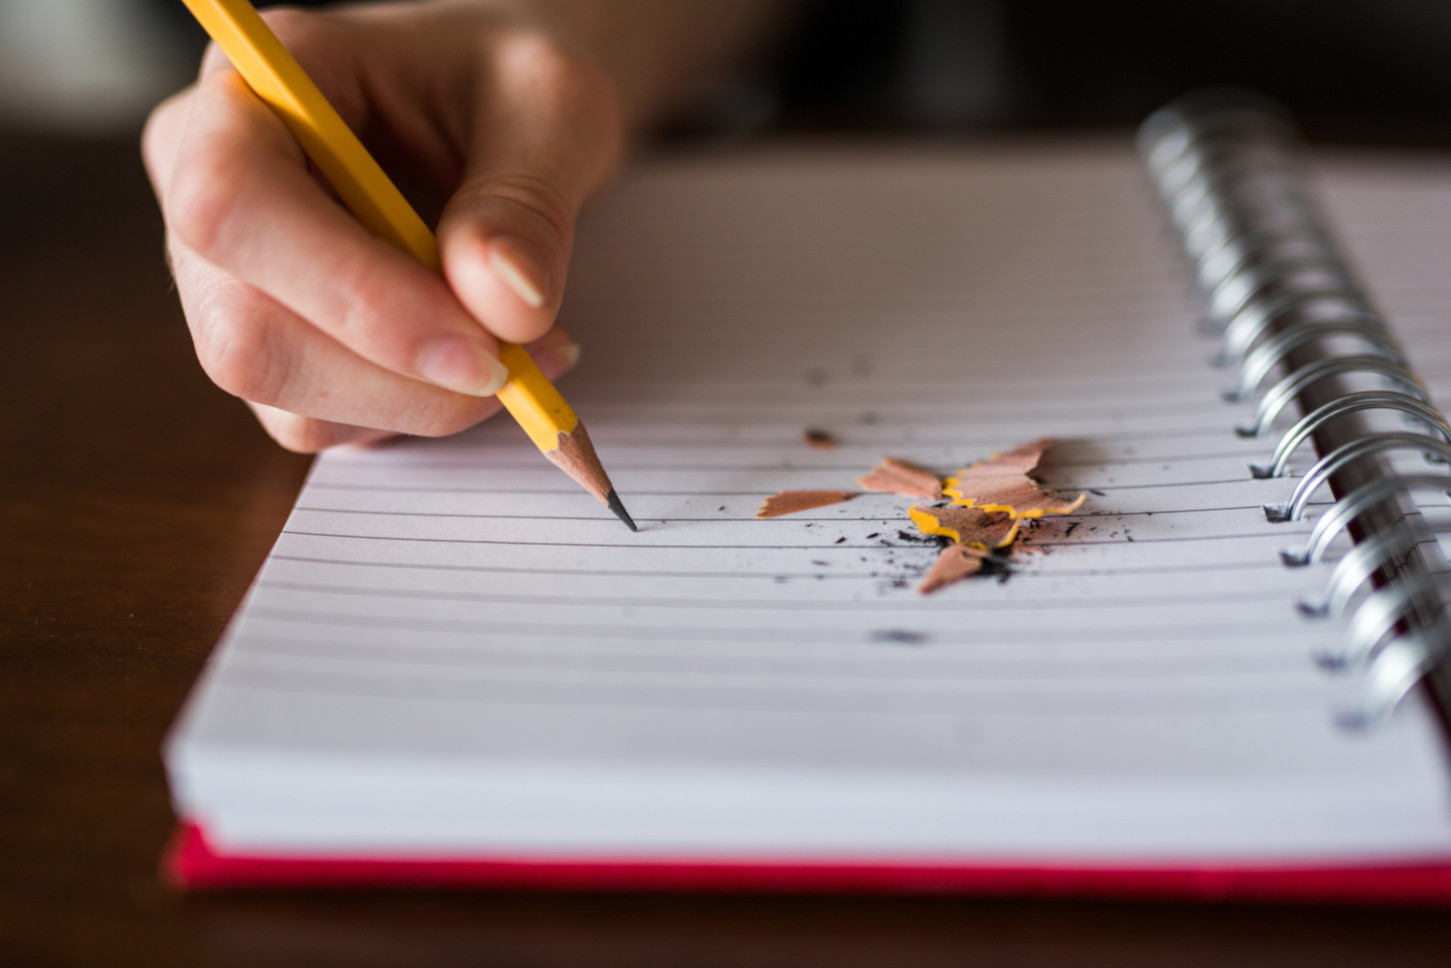
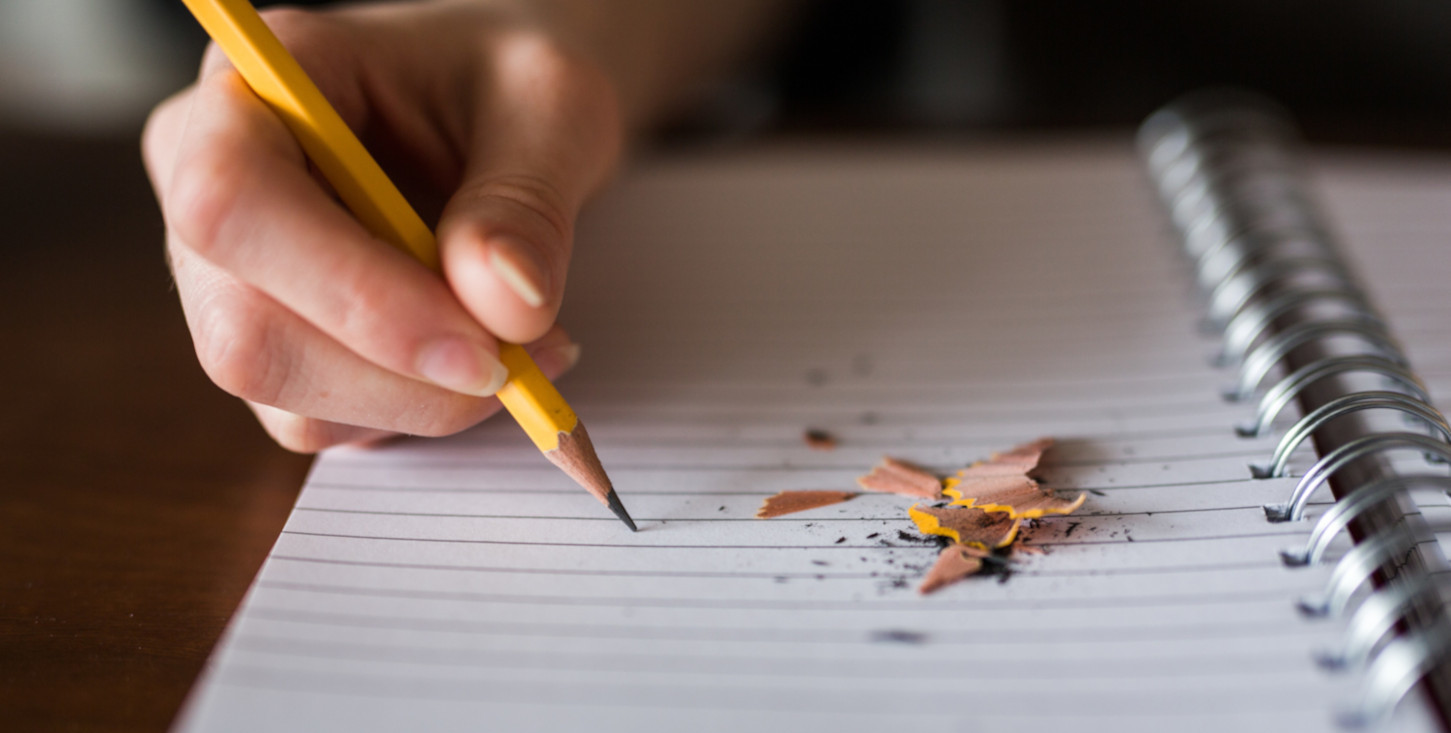
Add image in post

diff --git a/blog/_posts/2022-10-10-increase-your-test-quality-thanks-to-builders-or-factories.md b/blog/_posts/2022-10-10-increase-your-test-quality-thanks-to-builders-or-factories.md
@@ -13,6 +13,8 @@ related_posts: ["Why you should not expose objects' state to test them", "Why un
 
 # Increase your test quality thanks to builders or factories
 
+![Increase your test quality thanks to builders or factories](assets/img/posts/increase-your-test-quality-thanks-to-builders-or-factories.jpg)[@thoughtcatalog](https://unsplash.com/@thoughtcatalog)
+
 In a previous [blog post](http://arnolanglade.github.io/you-should-not-expose-objects-state-to-test-them.html), I explained why it’s better to compare object instances instead of exposing their state to test them. This avoids breaking encapsulation and it does not have any impact on their design.
 
 Let’s take an example! My side project allows me to create maps to remember places I have been. A map has a name and, as a cartographer, I am allowed to rename it. Real basic use case but more than enough! The following test ensures I can rename this map:
